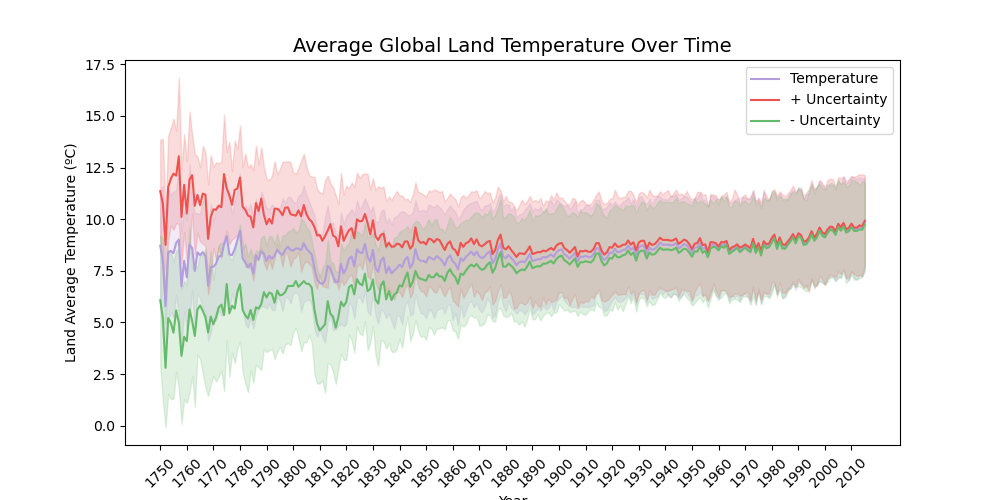
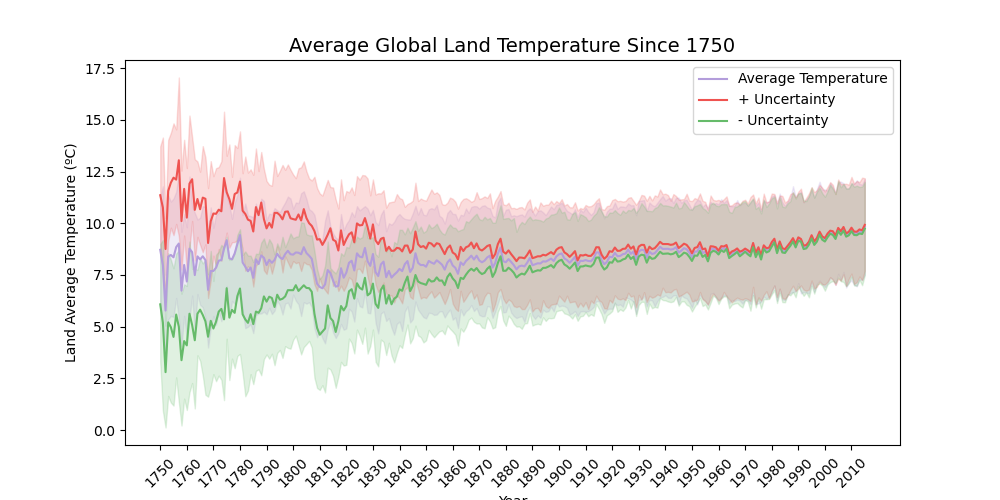
project update

diff --git a/_portfolio/portfolio-1.md b/_portfolio/portfolio-1.md
@@ -31,7 +31,7 @@ import plotly as py
 import seaborn as sns
 ```
 
-#### PLotting average global land temperatures over time
+### PLotting average global land temperatures over time
 
 For the initial analysis, I decided to plot average global land temperaures, to see the general trend. Luckily this data came with uncertanties, which we will use later on.
 
@@ -64,7 +64,7 @@ global_temps['LandAverageTemperature-Unc'] = global_temps['LandAverageTemperatur
 fig, ax = plt.subplots(figsize=(10, 5))
 
 # Plot the data with updated colors and labels for the legend
-sns.lineplot(data=global_temps, x='Year', y='LandAverageTemperature', color='#B39DDB', ax=ax, label='Temperature')  # Soft Purple
+sns.lineplot(data=global_temps, x='Year', y='LandAverageTemperature', color='#B39DDB', ax=ax, label='Average Temperature')  # Soft Purple
 sns.lineplot(data=global_temps, x='Year', y='LandAverageTemperature+Unc', color='#EF5350', ax=ax, label='+ Uncertainty')  # Soft Red
 sns.lineplot(data=global_temps, x='Year', y='LandAverageTemperature-Unc', color='#66BB6A', ax=ax, label='- Uncertainty')  # Green
 
@@ -74,7 +74,7 @@ ax.legend()
 
 
 # Set the title and labels
-plt.title('Average Global Land Temperature Over Time', fontsize=14)
+plt.title('Average Global Land Temperature Since 1750', fontsize=14)
 plt.ylabel('Land Average Temperature (ºC)')
 plt.xlabel('Year')
 
@@ -94,33 +94,43 @@ plt.show()
     
 
 
-### We can repeat this for the ocean temmperatures (noting that the data starts in 1850)
+### We can repeat this for the ocean temperatures (noting that the data starts in 1850)
 
 
 ```python
+global_temps['LandAndOceanAverageTemperature+Unc'] = (
+    global_temps['LandAndOceanAverageTemperature'] +
+    global_temps['LandAndOceanAverageTemperatureUncertainty']
+)
+global_temps['LandAndOceanAverageTemperature-Unc'] = (
+    global_temps['LandAndOceanAverageTemperature'] -
+    global_temps['LandAndOceanAverageTemperatureUncertainty']
+)
+
 # Create the figure and axes
 fig, ax = plt.subplots(figsize=(10, 5))
 
 # Plot the ocean temperature data
-sns.lineplot(data=global_temps, x='Year', y='LandAndOceanAverageTemperature', color='#B39DDB', ax=ax, label='Ocean Temperature')  # SkyBlue
-sns.lineplot(data=global_temps, x='Year', y='LandAndOceanAverageTemperature+Unc', color='#EF5350', ax=ax, label='+ Uncertainty')  # Tomato
-sns.lineplot(data=global_temps, x='Year', y='LandAndOceanAverageTemperature-Unc', color='#66BB6A', ax=ax, label='- Uncertainty')  # SteelBlue
+sns.lineplot(data=global_temps, x='Year', y='LandAndOceanAverageTemperature', color='#B39DDB', ax=ax, label='Average Temperature')  
+sns.lineplot(data=global_temps, x='Year', y='LandAndOceanAverageTemperature+Unc', color='#EF5350', ax=ax, label='+ Uncertainty')  
+sns.lineplot(data=global_temps, x='Year', y='LandAndOceanAverageTemperature-Unc', color='#66BB6A', ax=ax, label='- Uncertainty')  
 
-
-plt.title('Average Global Land Temperature Over Time')
+# Set the title and labels
+plt.title('Average Global Ocean Temperature Since 1850', fontsize=14)
 plt.ylabel('Ocean Average Temperature (ºC)')
 plt.xlabel('Year')
 
-# here i adjusted the x-axis to begin at 1850 as this is teh earleist data available
-ax.set_xticks(np.arange(1850, global_temps['Year'].max() + 1, 10))
-ax.set_xticklabels(np.arange(1850, global_temps['Year'].max() + 1, 10), rotation=45, fontsize=10)
+# Set x-ticks and labels
+# Set x-ticks starting from 1850
+ax.set_xticks(np.arange(1850, global_temps['Year'].max() + 1, 5))
+ax.set_xticklabels(np.arange(1850, global_temps['Year'].max() + 1, 5), rotation=45, fontsize=10)
 
 
 # Add the legend
 ax.legend(loc='lower right')
 
 # Save and show the figure
-fig.savefig('global_ocean_average.png')
+fig.savefig('ocean.png')
 plt.show()
 
 ```
@@ -129,6 +139,5 @@ plt.show()
     
 ![png](/images/projects/global_temps/global_ocean_average.png)
     
-
 
 
